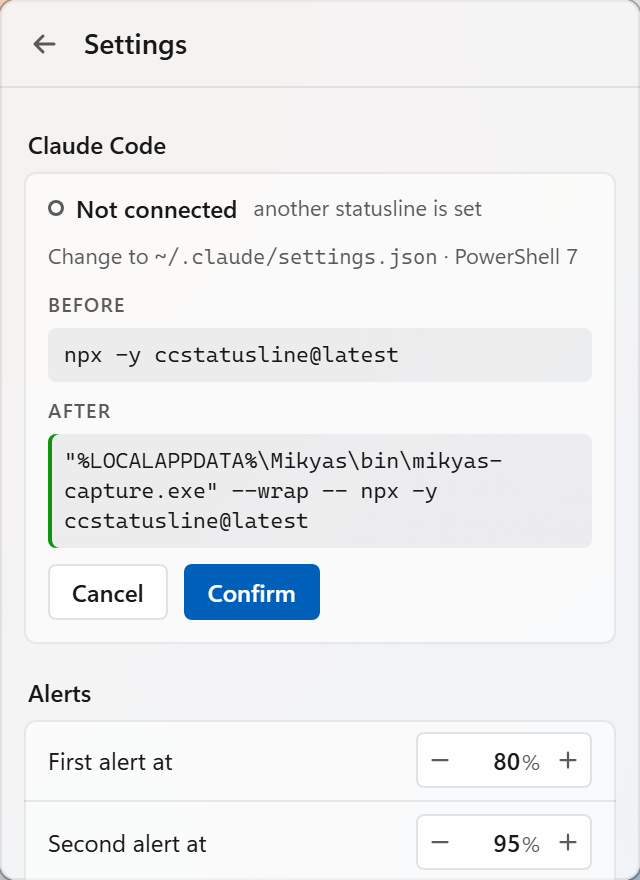
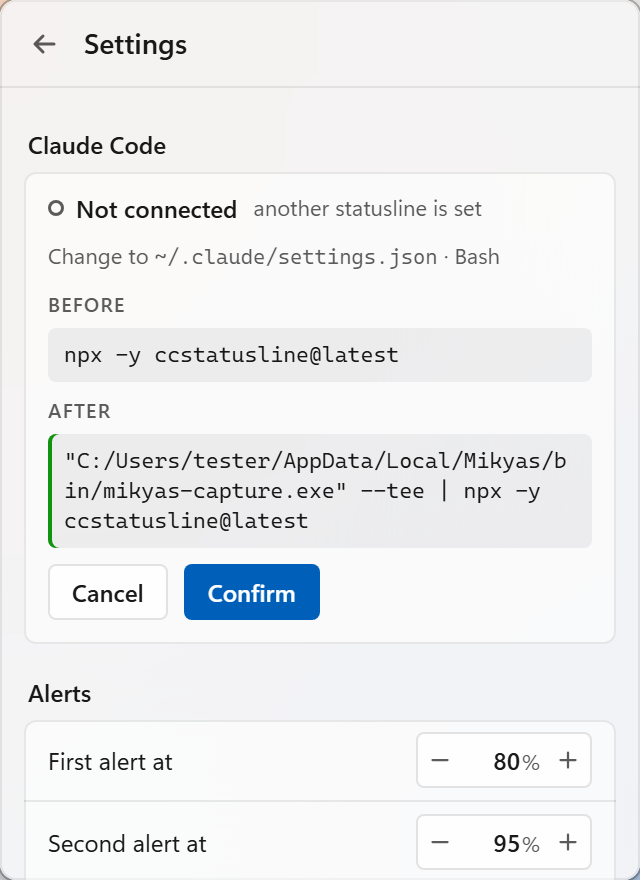
fix: show the real bash connect command in the mock preview

Changed region(s): [[0.0938, 0.4909, 0.875, 0.583], [0.7188, 0.2761, 0.875, 0.3068]]

diff --git a/src/lib/mock.test.ts b/src/lib/mock.test.ts
@@ -156,17 +156,43 @@ describe("createMockBackend", () => {
     const dry = b.invoke<ConnectPreview>("connect_claude_code", { dryRun: true });
     await vi.advanceTimersByTimeAsync(1000);
     const preview = await dry;
-    expect(preview.before).not.toBeNull();
-    expect(preview.after).toContain("--wrap");
+    expect(preview.before).toBe("npx -y ccstatusline@latest");
     expect(preview.selftest_ok).toBeNull();
 
     const real = b.invoke<ConnectPreview>("connect_claude_code", { dryRun: false });
     await vi.advanceTimersByTimeAsync(1000);
     expect((await real).selftest_ok).toBe(true);
-    expect((await b.invoke<{ state: string }>("connection_status")).state).toBe("connected");
+    expect(await b.invoke("connection_status")).toEqual({ state: "connected", mode: "pipe", original: "npx -y ccstatusline@latest" });
 
     const off = b.invoke<{ state: string }>("disconnect_claude_code");
     await vi.advanceTimersByTimeAsync(1000);
     expect((await off).state).toBe("foreign");
+  });
+
+  // The forms crates/core/src/cmdline.rs writes: the shim path quoted with forward slashes, and
+  // under Bash (Claude Code's shell when Git for Windows is installed) `--tee | <original>`, or
+  // `--default` when there was no statusline.
+  it("previews the command the real Connect writes", async () => {
+    vi.useFakeTimers();
+    const shim = `"C:/Users/tester/AppData/Local/Mikyas/bin/mikyas-capture.exe"`;
+    const connect = async (q: string) => {
+      const b = createMockBackend(new URLSearchParams(q));
+      const dry = b.invoke<ConnectPreview>("connect_claude_code", { dryRun: true });
+      await vi.advanceTimersByTimeAsync(1000);
+      const real = b.invoke<ConnectPreview>("connect_claude_code", { dryRun: false });
+      await vi.advanceTimersByTimeAsync(1000);
+      await real;
+      return { preview: await dry, status: await b.invoke("connection_status") };
+    };
+
+    const wrapped = await connect("conn=foreign");
+    expect(wrapped.preview).toMatchObject({ shell: "bash", after: `${shim} --tee | npx -y ccstatusline@latest` });
+    expect(wrapped.status).toMatchObject({ mode: "pipe" });
+
+    const fresh = await connect("conn=not_configured");
+    expect(fresh.preview).toMatchObject({ shell: "bash", before: null, after: `${shim} --default` });
+    expect(fresh.status).toEqual({ state: "connected", mode: "default", original: null });
+    // Already connected without a statusline of its own: the same `--default` form.
+    expect(await createMockBackend(new URLSearchParams("conn=connected")).invoke("connection_status")).toEqual(fresh.status);
   });
 });

diff --git a/src/lib/mock.ts b/src/lib/mock.ts
@@ -199,7 +199,7 @@ const opus =
 const desktopOk =
   (ago: number) =>
   (t0: number): DesktopHealth => ({ state: "ok", last_sample_ms: t0 - ago });
-const connected: ConnectionStatus = { state: "connected", mode: "pipe", original: null };
+const connected: ConnectionStatus = { state: "connected", mode: "default", original: null };
 const notConfigured: ConnectionStatus = { state: "not_configured" };
 
 const NORMAL: ScenarioSpec = {
@@ -483,7 +483,8 @@ function pick<T extends string>(value: string | null, allowed: readonly T[], fal
   return value !== null && (allowed as readonly string[]).includes(value) ? (value as T) : fallback;
 }
 
-const CAPTURE = String.raw`"%LOCALAPPDATA%\Mikyas\bin\mikyas-capture.exe"`;
+/** The installed shim as `cmdline::wrap` writes it: quoted, forward slashes (synthetic user). */
+const CAPTURE = `"C:/Users/tester/AppData/Local/Mikyas/bin/mikyas-capture.exe"`;
 const FOREIGN_CMD = "npx -y ccstatusline@latest";
 
 const sleep = (ms: number) => new Promise((r) => setTimeout(r, ms));
@@ -576,8 +577,9 @@ export function createMockBackend(params: URLSearchParams): Backend {
     const before = connection.state === "foreign" ? connection.command : null;
     return {
       before,
-      after: before ? `${CAPTURE} --wrap -- ${before}` : CAPTURE,
-      shell: "pwsh",
+      // The Bash forms of crates/core/src/cmdline.rs (Git Bash is Claude Code's usual shell).
+      after: before ? `${CAPTURE} --tee | ${before}` : `${CAPTURE} --default`,
+      shell: "bash",
       warnings:
         scenario === "warnings"
           ? [
@@ -625,7 +627,7 @@ export function createMockBackend(params: URLSearchParams): Backend {
       if (args.dryRun) return p;
       connection = {
         state: "connected",
-        mode: p.before ? "pipe_grouped" : "pipe",
+        mode: p.before ? "pipe" : "default",
         original: connection.state === "foreign" ? connection.command : null,
       };
       return { ...p, selftest_ok: true };

diff --git a/e2e/interactions.spec.ts b/e2e/interactions.spec.ts
@@ -293,7 +293,7 @@ test.describe("connect Claude Code", () => {
     await connect.click();
     await expect(page.getByText("Before", { exact: true })).toBeVisible();
     await expect(page.locator(".preview pre").first()).toHaveText("(no statusLine)");
-    await expect(page.locator(".preview pre.after")).toContainText("mikyas-capture.exe");
+    await expect(page.locator(".preview pre.after")).toHaveText(/mikyas-capture\.exe" --default$/);
     await page.getByRole("button", { name: "Cancel" }).click();
     await expect(page.locator(".preview")).toHaveCount(0);
     await connect.click();
@@ -308,7 +308,7 @@ test.describe("connect Claude Code", () => {
     await openWidget(page, { view: "settings", params: { conn: "foreign" } });
     await expect(page.locator(".cmd")).toHaveText("npx -y ccstatusline@latest");
     await page.getByRole("button", { name: "Connect Claude Code" }).click();
-    await expect(page.locator(".preview pre.after")).toContainText("--wrap -- npx -y ccstatusline@latest");
+    await expect(page.locator(".preview pre.after")).toHaveText(/mikyas-capture\.exe" --tee \| npx -y ccstatusline@latest$/);
     await page.getByRole("button", { name: "Confirm" }).click();
     await expect(page.getByText("wraps your statusline")).toBeVisible();
     await page.getByRole("button", { name: "Disconnect" }).click();
